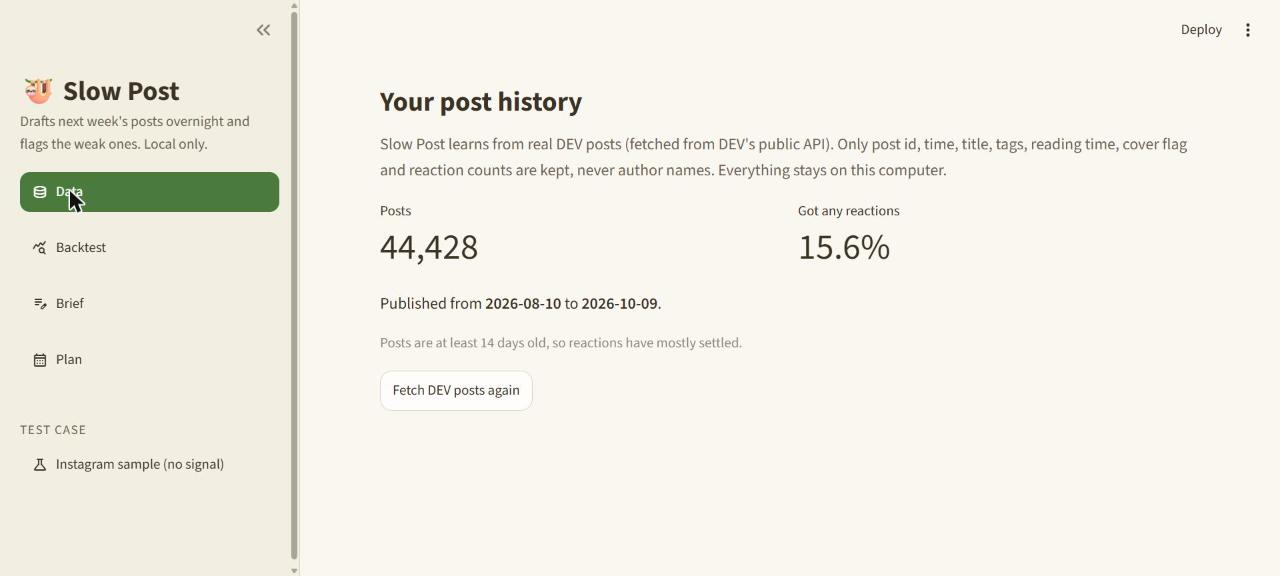
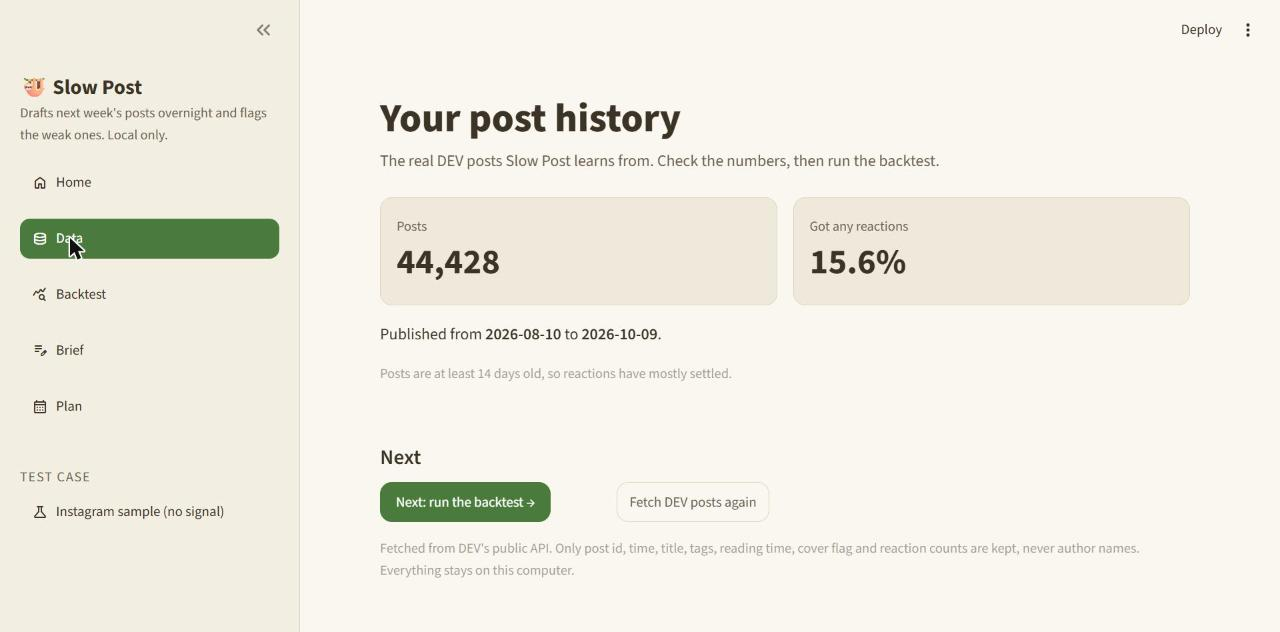
Part A: scroll new pages to top; retake Home, Data, Backtest and Plan screenshots

diff --git a/app.py b/app.py
@@ -19,6 +19,7 @@ from pathlib import Path
 import pandas as pd
 import psutil
 import streamlit as st
+import streamlit.components.v1 as components
 
 from slowpost import ui
 from slowpost.plan import apply_edits, plan_csv
@@ -500,6 +501,13 @@ def page_instagram() -> None:
 
 def go(page: str) -> None:
     st.session_state.nav = page
+    st.session_state.scroll_top = True  # a new page should open at its title
+
+
+def scroll_to_top() -> None:
+    if st.session_state.pop("scroll_top", False):
+        components.html("<script>const m = window.parent.document.querySelector("
+                        "'[data-testid=\"stMain\"]'); if (m) m.scrollTo(0, 0);</script>", height=0)
 
 
 def sidebar_nav() -> str:
@@ -522,5 +530,6 @@ def sidebar_nav() -> str:
 
 st.markdown(ui.css(), unsafe_allow_html=True)
 page = sidebar_nav()
+scroll_to_top()
 {"0 Home": page_home, "1 Data": page_data, "2 Backtest": page_backtest, "3 Brief": page_brief, "4 Plan": page_plan,
  SECONDARY[0]: page_instagram}[page]()

diff --git a/MEMORY.md b/MEMORY.md
@@ -50,6 +50,7 @@ Checked 2026-10-23 by reading `data/Instagram_Analytics.csv` (setup only, no app
   - M4 (2026-10-23): `app.py` has 5 pages (Data, Backtest, Brief, Plan, Instagram sample). Heavy work runs in subprocesses (fetch, backtest `--save` -> `data/backtests/*.json`, overnight run with `data/runs/_current.json` pid file), so refresh does not stop a run. What-if panel has two groups ("Backed by the data" = clear after correction; "The model's guess" greyed). Rewrite hint comes only from backed-by-data title changes (unit-tested); in the real UI run the one Weak draft was skipped with the reason shown because the title-question change was not backed. Edits are validated and features recomputed by code but NOT rescored (UI says so); plan.csv flags edited rows. Chrome check: missing CSV, Ollama down (test instance on port 8502 with SLOWPOST_DEV_CSV pointing nowhere and OLLAMA_HOST=http://127.0.0.1:1), empty brief, full run (559 s), edit, CSV download all OK. Screenshots in `docs/screenshots/` (no DEV titles or authors). Real run: labels Strong 3, Okay 1, Weak 1; supported features: has_cover_image, hour, main_tag, reading_time_minutes, title_has_number, weekday.
   - M5 (2026-10-23): second full UI run 621 s (drafting 470 s, backtest 113 s, scoring 37 s); no stale widgets on the Plan page while running. Slow real-Gemma injection test passed (28.8 s): valid draft, no poem, but the topic was unrelated to the brief. Near-duplicate titles now get up to two regenerations (second with a clearly different angle) then a flag. Screenshots refreshed (13, `docs/screenshots/`), GIF `docs/slowpost-walkthrough.gif` (19 frames, recorded over saved results, not live computation). README written; TabPFN-licence wording hedged (non-commercial weights; read Prior Labs terms). Metric delta arrow now shows only when the balanced-accuracy interval excludes zero. Chrome screenshot tool timed out right after scrolls; retry works.
   - UI polish (2026-10-24): presentation only. `slowpost/ui.py` holds PALETTE (single source; config.toml repeats the theme colours, a test keeps them in sync), CSS, badges (glyph + word), run-progress parser. Sidebar is custom nav buttons (state `st.session_state.nav`; tests set it instead of the old radio), Instagram sample set apart. Backtest opens with a big lift headline read from the saved result. Plan = 3-column week cards, compact legend, rewrite before/after side by side below the grid, skipped-rewrite reason on the card. Run screen = steps ticking off + elapsed + collapsed Details log (no per-draft count: the log does not report it). `SLOWPOST_RUNS` env overrides the runs folder (used for screenshots of older runs). Full real UI run 506 s (drafting 294, backtest 160, scoring 50). 16 screenshots in docs/screenshots/. The walkthrough GIF is still the old design.
+  - Part A hierarchy pass (2026-10-24): Home page first (default), four text levels in ui.py (title, section, body, help), metric boxes, one filled primary button per page with quieter secondaries, per-draft `Drafted i/n` log line shown as `Drafting with Gemma i/n`, Plan grid is 2 columns, new pages scroll to top. Screenshots 00, 03, 04, 09 retaken; the others and the GIF are still from the previous pass. Part B (B1-B7) waits for the user's `continue`.
   - Instagram sample (account 15): 1,000 train; newest week too small so the newest 20% (320 posts) is the test window. Balanced accuracy 0.379 vs 0.333 (gap +0.045, CI -0.001 to +0.095); AUC 0.526 (0.479-0.573). Verdict: no better than baseline. No feature has a corrected p below 0.05 (smallest 0.12, hashtags).
   - Training is a random seeded sample from all older posts (user decision), not the 1,000 just before the test window.
 - Open: does the Kaggle data have real patterns (it may be simulated)? The signal check says little or none.
